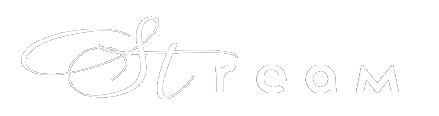
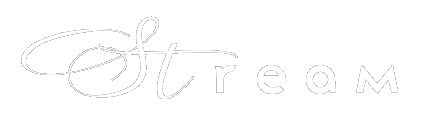
0P

diff --git a/css/stream.css b/css/stream.css
@@ -1,1 +1,1 @@
-.version.stream{color:#000006;background-color:#09AB86;}#muse_css_mq{background-color:#FFFFFF;}#page{z-index:1;width:960px;min-height:1387px;background-image:none;border-width:0px;border-color:#000000;background-color:transparent;margin-left:auto;margin-right:auto;}#page_position_content{margin-top:-30px;padding-bottom:9px;width:0.01px;}#pu21365{z-index:26;width:0.01px;margin-left:259px;}#u21365{z-index:26;width:440px;background-color:transparent;opacity:0.65;-ms-filter:"progid:DXImageTransform.Microsoft.Alpha(Opacity=65)";filter:alpha(opacity=65);position:relative;margin-right:-10000px;}#u21361{z-index:27;display:block;}#u20239{z-index:2;width:60px;min-height:30px;border-width:0px;border-color:transparent;background-color:transparent;position:relative;margin-right:-10000px;margin-top:4px;left:500px;}#u20225{z-index:3;width:50px;min-height:25px;border-width:0px;border-color:transparent;background-color:transparent;position:relative;margin-right:-10000px;margin-top:14px;left:597px;}#u20274-11{z-index:4;width:852px;min-height:272px;background-color:transparent;opacity:0.65;-ms-filter:"progid:DXImageTransform.Microsoft.Alpha(Opacity=65)";filter:alpha(opacity=65);color:#FFFFFF;line-height:50px;font-size:42px;text-align:justify;font-weight:normal;margin-left:54px;margin-top:182px;position:relative;}#u20274-2{font-weight:bold;}#u20274-4{font-style:italic;}#pu20238{z-index:15;width:0.01px;margin-left:17px;margin-top:56px;}#u20238{z-index:15;width:925px;min-height:504px;border-width:0px;border-color:transparent;background-color:transparent;position:relative;margin-right:-10000px;}#u21284{z-index:18;width:33px;height:85px;background-color:#FF0000;border-radius:10px;position:relative;margin-right:-10000px;margin-top:28px;left:36px;}#u21311{z-index:19;width:33px;height:85px;background-color:#FF0000;border-radius:10px;position:relative;margin-right:-10000px;margin-top:28px;left:855px;}#u21293{z-index:20;width:33px;height:85px;background-color:#FF0000;border-radius:10px;position:relative;margin-right:-10000px;margin-top:149px;left:36px;}#u21314{z-index:21;width:33px;height:85px;background-color:#FF0000;border-radius:10px;position:relative;margin-right:-10000px;margin-top:149px;left:855px;}#u21296{z-index:22;width:33px;height:85px;background-color:#FF0000;border-radius:10px;position:relative;margin-right:-10000px;margin-top:270px;left:36px;}#u21317{z-index:23;width:33px;height:85px;background-color:#FF0000;border-radius:10px;position:relative;margin-right:-10000px;margin-top:270px;left:855px;}#u21299{z-index:24;width:33px;height:85px;background-color:#FF0000;border-radius:10px;position:relative;margin-right:-10000px;margin-top:391px;left:36px;}#u21320{z-index:25;width:33px;height:85px;background-color:#FF0000;border-radius:10px;position:relative;margin-right:-10000px;margin-top:391px;left:855px;}#u21380{z-index:28;width:121px;background-color:transparent;position:relative;margin-right:-10000px;margin-top:53px;}#u21376{z-index:29;display:block;}#u21484{z-index:30;width:121px;background-color:transparent;-webkit-transform:matrix(0,-1,1,0,0,121);-ms-transform:matrix(0,-1,1,0,0,121);transform:matrix(0,-1,1,0,0,121);position:relative;margin-right:-10000px;margin-top:323px;}#u21485{z-index:31;display:block;}#u21437{z-index:32;width:121px;background-color:transparent;position:relative;margin-right:-10000px;margin-top:53px;left:805px;}#u21433{z-index:33;display:block;}#u21452{z-index:34;width:121px;background-color:transparent;-webkit-transform:matrix(0,1,-1,0,121,0);-ms-transform:matrix(0,1,-1,0,121,0);transform:matrix(0,1,-1,0,121,0);position:relative;margin-right:-10000px;margin-top:325px;left:806px;}#u21453{z-index:35;display:block;}#pu21543{z-index:36;width:0.01px;margin-left:63px;margin-top:90px;}#u21543{z-index:36;width:231px;background-color:transparent;position:relative;margin-right:-10000px;}#u21539{z-index:37;display:block;margin-bottom:2px;}#u21210{z-index:16;width:171px;background-color:transparent;opacity:0.65;-ms-filter:"progid:DXImageTransform.Microsoft.Alpha(Opacity=65)";filter:alpha(opacity=65);position:relative;margin-right:-10000px;margin-top:116px;left:674px;}#u21206{z-index:17;display:block;}.html{background-color:#FF0000;}body{position:relative;min-width:960px;padding-top:107px;padding-bottom:24px;}
+.version.stream{color:#000006;background-color:#7571CD;}#muse_css_mq{background-color:#FFFFFF;}#page{z-index:1;width:960px;min-height:1387px;background-image:none;border-width:0px;border-color:#000000;background-color:transparent;margin-left:auto;margin-right:auto;}#page_position_content{margin-top:-30px;padding-bottom:9px;width:0.01px;}#pu21365{z-index:26;width:0.01px;margin-left:259px;}#u21365{z-index:26;width:440px;background-color:transparent;opacity:0.65;-ms-filter:"progid:DXImageTransform.Microsoft.Alpha(Opacity=65)";filter:alpha(opacity=65);position:relative;margin-right:-10000px;}#u21361{z-index:27;display:block;}#u20239{z-index:2;width:60px;min-height:30px;border-width:0px;border-color:transparent;background-color:transparent;position:relative;margin-right:-10000px;margin-top:4px;left:500px;}#u20225{z-index:3;width:50px;min-height:25px;border-width:0px;border-color:transparent;background-color:transparent;position:relative;margin-right:-10000px;margin-top:14px;left:597px;}#u20274-11{z-index:4;width:852px;min-height:272px;background-color:transparent;opacity:0.65;-ms-filter:"progid:DXImageTransform.Microsoft.Alpha(Opacity=65)";filter:alpha(opacity=65);color:#FFFFFF;line-height:50px;font-size:42px;text-align:justify;font-weight:normal;margin-left:54px;margin-top:182px;position:relative;}#u20274-2{font-weight:bold;}#u20274-4{font-style:italic;}#pu20238{z-index:15;width:0.01px;margin-left:17px;margin-top:56px;}#u20238{z-index:15;width:925px;min-height:504px;border-width:0px;border-color:transparent;background-color:transparent;position:relative;margin-right:-10000px;}#u21284{z-index:18;width:33px;height:85px;background-color:#FF0000;border-radius:10px;position:relative;margin-right:-10000px;margin-top:28px;left:36px;}#u21311{z-index:19;width:33px;height:85px;background-color:#FF0000;border-radius:10px;position:relative;margin-right:-10000px;margin-top:28px;left:855px;}#u21293{z-index:20;width:33px;height:85px;background-color:#FF0000;border-radius:10px;position:relative;margin-right:-10000px;margin-top:149px;left:36px;}#u21314{z-index:21;width:33px;height:85px;background-color:#FF0000;border-radius:10px;position:relative;margin-right:-10000px;margin-top:149px;left:855px;}#u21296{z-index:22;width:33px;height:85px;background-color:#FF0000;border-radius:10px;position:relative;margin-right:-10000px;margin-top:270px;left:36px;}#u21317{z-index:23;width:33px;height:85px;background-color:#FF0000;border-radius:10px;position:relative;margin-right:-10000px;margin-top:270px;left:855px;}#u21299{z-index:24;width:33px;height:85px;background-color:#FF0000;border-radius:10px;position:relative;margin-right:-10000px;margin-top:391px;left:36px;}#u21320{z-index:25;width:33px;height:85px;background-color:#FF0000;border-radius:10px;position:relative;margin-right:-10000px;margin-top:391px;left:855px;}#u21380{z-index:28;width:121px;background-color:transparent;position:relative;margin-right:-10000px;margin-top:53px;}#u21376{z-index:29;display:block;}#u21484{z-index:30;width:121px;background-color:transparent;-webkit-transform:matrix(0,-1,1,0,0,121);-ms-transform:matrix(0,-1,1,0,0,121);transform:matrix(0,-1,1,0,0,121);position:relative;margin-right:-10000px;margin-top:323px;}#u21485{z-index:31;display:block;}#u21437{z-index:32;width:121px;background-color:transparent;position:relative;margin-right:-10000px;margin-top:53px;left:805px;}#u21433{z-index:33;display:block;}#u21452{z-index:34;width:121px;background-color:transparent;-webkit-transform:matrix(0,1,-1,0,121,0);-ms-transform:matrix(0,1,-1,0,121,0);transform:matrix(0,1,-1,0,121,0);position:relative;margin-right:-10000px;margin-top:325px;left:806px;}#u21453{z-index:35;display:block;}#pu21543{z-index:36;width:0.01px;margin-left:119px;margin-top:136px;}#u21543{z-index:36;width:175px;background-color:transparent;position:relative;margin-right:-10000px;}#u21539{z-index:37;display:block;margin-bottom:1px;}#u21791{z-index:38;width:119px;background-color:transparent;position:relative;margin-right:-10000px;margin-top:66px;left:202px;}#u21787{z-index:39;display:block;}#u21210{z-index:16;width:171px;background-color:transparent;opacity:0.65;-ms-filter:"progid:DXImageTransform.Microsoft.Alpha(Opacity=65)";filter:alpha(opacity=65);position:relative;margin-right:-10000px;margin-top:70px;left:618px;}#u21206{z-index:17;display:block;}.html{background-color:#FF0000;}body{position:relative;min-width:960px;padding-top:107px;padding-bottom:24px;}

diff --git a/stream.html b/stream.html
@@ -19,7 +19,7 @@ if(typeof Muse == "undefined") window.Muse = {}; window.Muse.assets = {"required
   <title>stream</title>
   <!-- CSS -->
   <link rel="stylesheet" type="text/css" href="css/site_global.css?crc=4162518342"/>
-  <link rel="stylesheet" type="text/css" href="css/stream.css?crc=101297030" id="pagesheet"/>
+  <link rel="stylesheet" type="text/css" href="css/stream.css?crc=108360141" id="pagesheet"/>
     <!--custom head HTML-->
   <!-- Chrome, Firefox OS and Opera -->
 <meta name="theme-color" content="#FF0000">
@@ -69,7 +69,7 @@ h3 {font-family: 'Jost', sans-serif;}
    <div class="position_content" id="page_position_content">
     <div class="clearfix colelem" id="pu21365"><!-- group -->
      <div class="clip_frame grpelem" id="u21365"><!-- svg -->
-      <img class="svg" id="u21361" src="images/stream----%d0%bd%d0%b0%d0%b4%d0%bf%d0%b8%d1%81%d1%8c-2.svg?crc=239464630" width="439" height="116" alt="" data-mu-svgfallback="images/stream%20-%20%d0%bd%d0%b0%d0%b4%d0%bf%d0%b8%d1%81%d1%8c%202_poster_.png?crc=322778115"/>
+      <img class="svg" id="u21361" src="images/stream----%d0%bd%d0%b0%d0%b4%d0%bf%d0%b8%d1%81%d1%8c-2.svg?crc=495385725" width="439" height="116" alt="" data-mu-svgfallback="images/stream%20-%20%d0%bd%d0%b0%d0%b4%d0%bf%d0%b8%d1%81%d1%8c%202_poster_.png?crc=124340245"/>
      </div>
      <div class="size_fixed grpelem" id="u20239"><!-- custom html -->
 
@@ -113,7 +113,10 @@ h3 {font-family: 'Jost', sans-serif;}
     </div>
     <div class="clearfix colelem" id="pu21543"><!-- group -->
      <div class="clip_frame grpelem" id="u21543"><!-- svg -->
-      <img class="svg" id="u21539" src="images/stream---%d0%b7%d0%bd%d0%b0%d1%87%d0%be%d0%ba-2.svg?crc=154853670" width="228" height="186" alt="" data-mu-svgfallback="images/stream%20-%20%d0%b7%d0%bd%d0%b0%d1%87%d0%be%d0%ba%202_poster_.png?crc=447282578"/>
+      <img class="svg" id="u21539" src="images/stream---%d0%b7%d0%bd%d0%b0%d1%87%d0%be%d0%ba-2.svg?crc=154853670" width="173" height="141" alt="" data-mu-svgfallback="images/stream%20-%20%d0%b7%d0%bd%d0%b0%d1%87%d0%be%d0%ba%202_poster_.png?crc=447282578"/>
+     </div>
+     <div class="clip_frame grpelem" id="u21791"><!-- svg -->
+      <img class="svg" id="u21787" src="images/iso-%d0%b7%d0%bd%d0%b0%d1%87%d0%be%d0%ba.svg?crc=3991145293" width="119" height="56" alt="" data-mu-svgfallback="images/iso%20%d0%b7%d0%bd%d0%b0%d1%87%d0%be%d0%ba_poster_.png?crc=4199177994"/>
      </div>
      <div class="clip_frame grpelem" id="u21210"><!-- svg -->
       <img class="svg" id="u21206" src="images/htpps---%d0%bd%d0%b0%d0%b4%d0%bf%d0%b8%d1%81%d1%8c-2.svg?crc=65413208" width="171" height="45" alt="" data-mu-svgfallback="images/htpps%20-%20%d0%bd%d0%b0%d0%b4%d0%bf%d0%b8%d1%81%d1%8c%202_poster_.png?crc=4084330652"/>

diff --git a/index.html b/index.html
@@ -65,23 +65,14 @@ h2 {font-family: 'Limelight', cursive;}
 </style>
 <style type="text/css">
 
-.qooqeesl {
-    position:fixed;
-    top:0;
-    left:0;
-    right:0;
-    bottom:0;
-    background-color:#FF0000;
-    z-index:99;
-}
-
+.
 </style>
 
  </head>
  <body>
 
   <!--HTML Widget code-->
-
+  
   <div class="clearfix" id="page"><!-- column -->
    <div class="position_content" id="page_position_content">
     <div class="clearfix colelem" id="pu791"><!-- group -->
